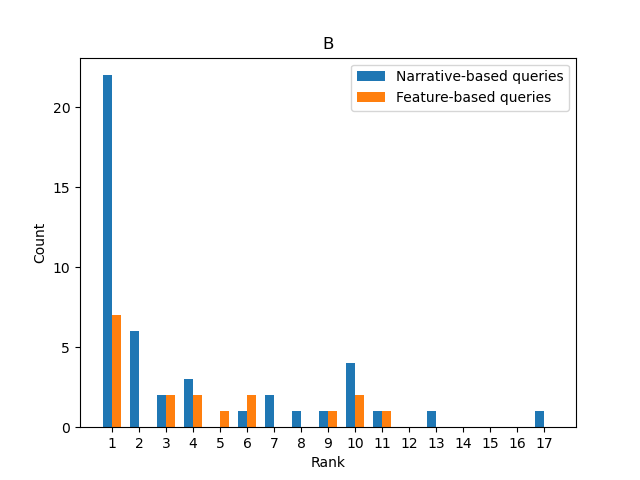
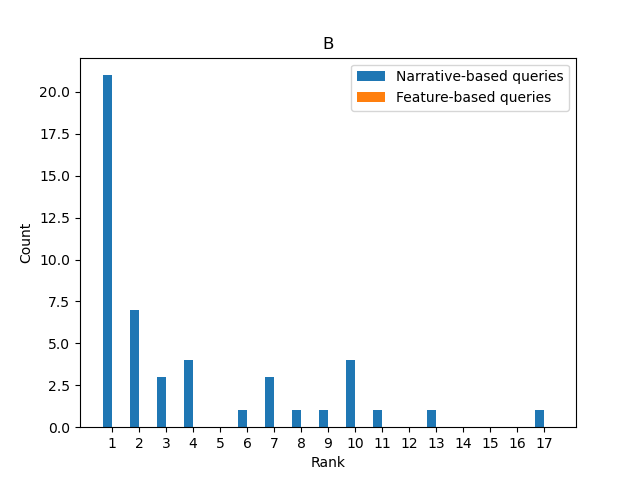
Switch to new data

diff --git a/figure2.py b/figure2.py
@@ -4,7 +4,7 @@ import numpy as np
 import seaborn as sns
 import matplotlib.pyplot as plt
 
-score_column = 'Score (Peter)'  # change to Score (0-5) once we have met and discussed
+score_column = 'Score (0-5)'
 rank_column = 'Rank'
 data_dir = 'data'
 
